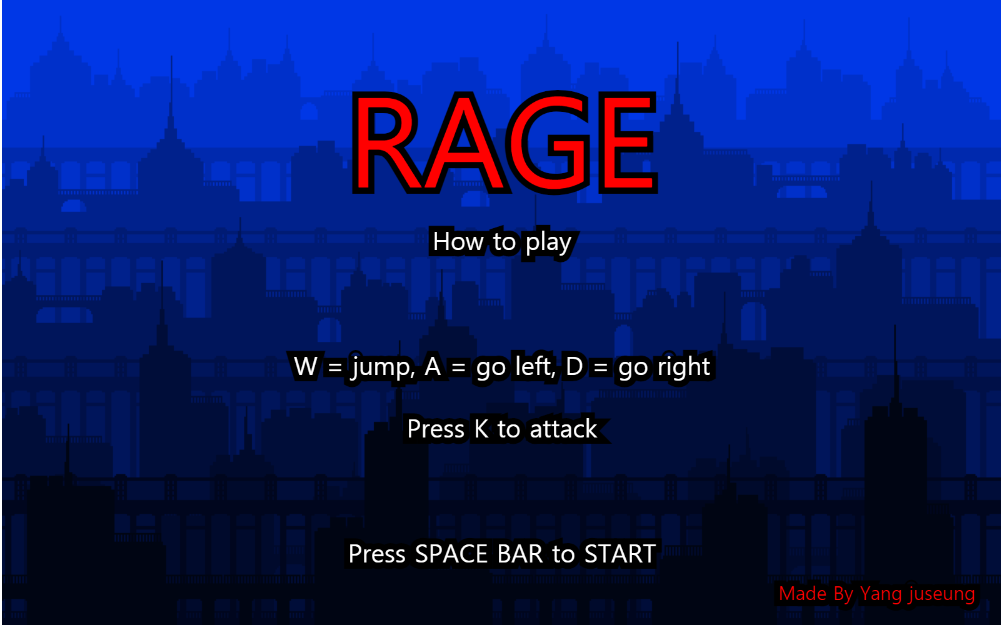
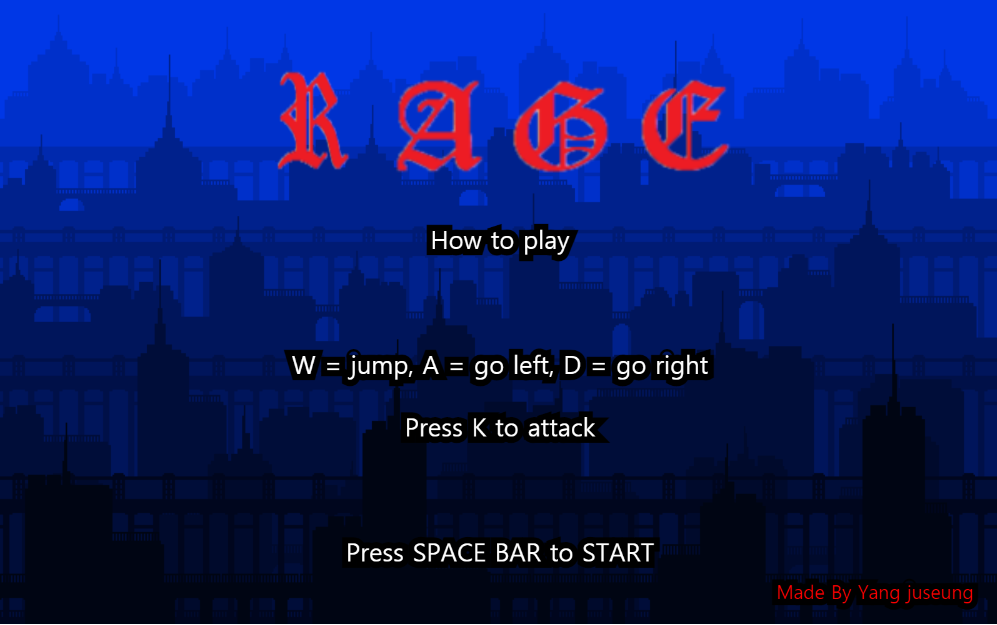
final project

diff --git a/sketch.js b/sketch.js
@@ -105,6 +105,7 @@ var lives = 4;
 var madlives = 3;
 var score  = 0;
 var how_many_knife = 40
+var knife_start_position 
 
 //class
 var throwing_knife = [];
@@ -161,9 +162,17 @@ var madlife2_1 = 300
 var bosshealth = 1000
 
 
-//frame
-let bossframes = []
-let bossnumFrames = 48
+//animation
+var boss_r_walkData
+var boss_r_walkImage
+let Animations = {};
+let CurrentAnimation = "Idle";
+let animation_names = ["Boss - r -walk"]
+let FrameIndex = 0;
+let EllapsedTime = 0;
+let AnimationSpeed = (1/24) * 1000
+
+
 
 //preload
 function preload() 
@@ -193,6 +202,9 @@ function preload()
     knife_r = loadImage("image/knife r.png")
     knife_l = loadImage("image/knife l.png")
     background_music = loadSound("audio/back music.mp3")
+
+    boss_r_walkData = loadJSON("move/Boss - r - walk.json")
+    boss_r_walkImage = loadImage("move/Boss - r - walk.png")
 }
 
 
@@ -204,7 +216,19 @@ function setup()
     textAlign(CENTER);
     imageMode(CENTER);
     background_music.play();
-
+    console.log(boss_r_walkData.frames['Boss0.png'])
+    for(let name of animation_names)
+    {
+        let frames = [];
+        for(let info of boss_r_walkData.frames)
+        {
+            if(!info.filename.includes(name))
+                continue;
+            frames.push(info.frame);
+        }
+        Animations[name] = frames;
+        boss_r_walkData = null;
+    }
 }//close setup
 
 
@@ -268,7 +292,10 @@ function splash()
     stroke(0);
     strokeWeight(10);
     textSize(100);
-    text('RAGE', width / 2, 150)
+    image(R, 250, 100, 100, 100)
+    image(A, 350, 100, 100, 100)
+    image(G, 450, 100, 100, 100)
+    image(E, 550, 100, 100, 100)
     textSize(15);
     text("Made By Yang juseung", 700, 480);
 
@@ -447,6 +474,11 @@ function game()
     {
         throwing_knife[i].show();
         throwing_knife[i].move();
+
+        if(throwing_knife[i].X >= knife_start_position + 100)
+        {
+            throwing_knife.splice(i,1)
+        }
     }
     
 }//close game
@@ -486,9 +518,9 @@ function knife()
     stroke(0);
     text("knife :", 700, 50)
     text(how_many_knife, 750, 50)
-    rect(p1X + 60, p1Y, pWidth + 30, pHeight - 30)
     push()
     noStroke();
+    rect(p1X + 60, p1Y, pWidth + 30, pHeight - 30)
     pop()
 }
 
@@ -721,6 +753,11 @@ function level2()
     {
         throwing_knife[i].show();
         throwing_knife[i].move();
+
+        if(throwing_knife[i].X >= knife_start_position + 100)
+        {
+            throwing_knife.splice(i,1)
+        }
     }
 }
 
@@ -878,7 +915,7 @@ function player1()
 
 function Boss()
 {
-    //image(bosswalk_r1, bossX, bossY, bossWidth, bossHeight);
+    image(bosswalk_r1, bossX, bossY, bossWidth, bossHeight);
     if(p1X >= bossX - bossWidth / 2 && p1X<= bossX + bossWidth / 2 && p1Y >= bossY - bossHeight / 2 && p1Y <= bossY + bossHeight / 2)
     {
         //hitting boss
@@ -901,6 +938,16 @@ function Boss()
             stage = 7
         }
     }
+
+    let frames = Animations[CurrentAnimation];
+    let frame = frames[FrameIndex];
+    image(boss_r_walkImage, 0, 0, frame.w * 0.25, frame.h * 0.25, frame.x, frame.y, frame.w, frame.h);
+    EllapsedTime += deltaTime;
+    if(EllapsedTime > AnimationSpeed)
+    {
+        EllapsedTime -= AnimationSpeed;
+        FrameIndex = (FrameIndex + 1) % frame.length;
+    }
 }
 
 function keyPressed()
@@ -914,8 +961,10 @@ function keyPressed()
     if(key == "k" || key == "K" || keyCode == "75")
     {
         how_many_knife = how_many_knife - 1
-        var knifes = new Knife (p1X, p1Y)
-        throwing_knife.push(knifes)
+        
+        //var knifes = new Knife (p1X, p1Y)
+        throwing_knife.push(new Knife (p1X, p1Y))
+        knife_start_position = p1X
     }
 }
 

diff --git a/knife_bullet.js b/knife_bullet.js
@@ -1,25 +1,23 @@
+// Name       : Yang juseung
+// Assignment : Final project
+// Course     : CS099
+// Spring 2021
 
 class Knife
 {
     constructor(x,y)
     {
-        this.X = x
+        this.X = x + 20
         this.Y = y
     }
 
     show()
     {
-        this.show = function()
-        {
-            image(knife_r, this.X, this.Y, 50, 50);
-        }
+        image(knife_r, this.X, this.Y, 50, 50);
     }
 
     move()
     {
-        this.move = function()
-        {
-            this.X = this.X + 5; //knife speed
-        }
+        this.X = this.X + 5; //knife speed
     }
 }

diff --git a/index.html b/index.html
@@ -16,7 +16,6 @@
 <body>
     <script src="sketch.js"></script>
     <script src="knife_bullet.js"></script>
-    <script src="BOSS.js"></script>
 </body>
 
 </html>

diff --git a/Media.md b/Media.md
@@ -1,0 +1,3 @@
+The image files which are in the folder called move and image, are all I made it with Piskel and drawing boards on the window.
+
+The back ground music is 
